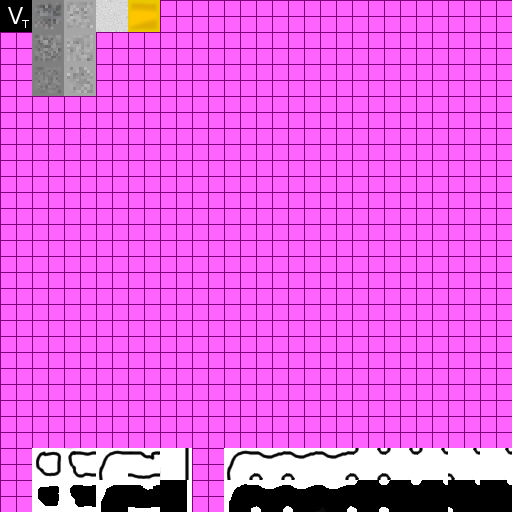
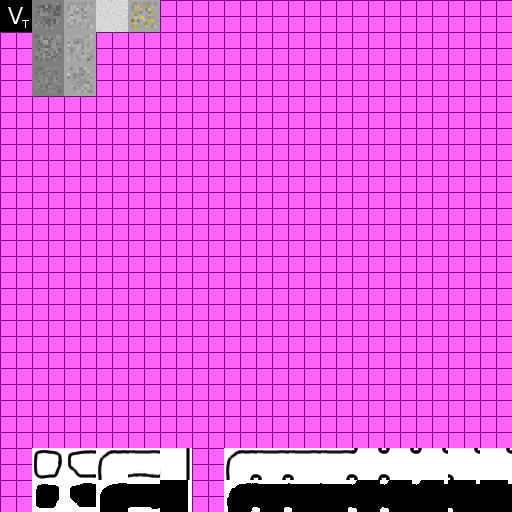
Top-Linien überarbeitet: Grafik anders + Keine Linien zwischen Berg und Ressourcen + Goldtextur anders

diff --git a/src/de/_13ducks/spacebatz/client/graphics/controls/GodControl.java b/src/de/_13ducks/spacebatz/client/graphics/controls/GodControl.java
@@ -315,7 +315,7 @@ public class GodControl implements Control {
                 if (((shadowLevel == 1 && shadow != 127) || !surroundingDark(GameClient.currentLevel.shadow, x, y) || shadowLevel == 0) && baseTexAt(top, x, y) != 0) {
                     int tex = realTexAt(top, top_random, x, y);
                     int patRot = patternAt(top, x, y);
-                    if (fancyTop && (patRot >> 4) != 5) {
+                    if (fancyTop && ((patRot >> 4) != 5)) {
                         int rot = patRot & 0x0F;
                         // Bild im Stencil-Buffer erzeugen:
                         glEnable(GL_STENCIL_TEST); // Stenciling ist an
@@ -763,7 +763,11 @@ public class GodControl implements Control {
      */
     private int patternAt(int[][] tex, int x, int y) {
         int myTex = baseTexAt(tex, x, y);
-        return patternRotationLookupTable[(myTex == baseTexAt(tex, x + 1, y) ? 1 : 0) | (myTex == baseTexAt(tex, x + 1, y - 1) ? 2 : 0) | (myTex == baseTexAt(tex, x, y - 1) ? 4 : 0) | (myTex == baseTexAt(tex, x - 1, y - 1) ? 8 : 0) | (myTex == baseTexAt(tex, x - 1, y) ? 16 : 0) | (myTex == baseTexAt(tex, x - 1, y + 1) ? 32 : 0) | (myTex == baseTexAt(tex, x, y + 1) ? 64 : 0) | (myTex == baseTexAt(tex, x + 1, y + 1) ? 128 : 0)];
+        if (myTex >= 2) {
+            return patternRotationLookupTable[(2 <= baseTexAt(tex, x + 1, y) ? 1 : 0) | (2 <= baseTexAt(tex, x + 1, y - 1) ? 2 : 0) | (2 <= baseTexAt(tex, x, y - 1) ? 4 : 0) | (2 <= baseTexAt(tex, x - 1, y - 1) ? 8 : 0) | (2 <= baseTexAt(tex, x - 1, y) ? 16 : 0) | (2 <= baseTexAt(tex, x - 1, y + 1) ? 32 : 0) | (2 <= baseTexAt(tex, x, y + 1) ? 64 : 0) | (2 <= baseTexAt(tex, x + 1, y + 1) ? 128 : 0)];
+        } else {
+          return patternRotationLookupTable[(myTex == baseTexAt(tex, x + 1, y) ? 1 : 0) | (myTex == baseTexAt(tex, x + 1, y - 1) ? 2 : 0) | (myTex == baseTexAt(tex, x, y - 1) ? 4 : 0) | (myTex == baseTexAt(tex, x - 1, y - 1) ? 8 : 0) | (myTex == baseTexAt(tex, x - 1, y) ? 16 : 0) | (myTex == baseTexAt(tex, x - 1, y + 1) ? 32 : 0) | (myTex == baseTexAt(tex, x, y + 1) ? 64 : 0) | (myTex == baseTexAt(tex, x + 1, y + 1) ? 128 : 0)];
+        }
     }
 
     /**
